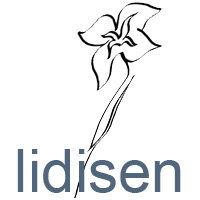
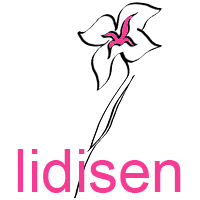
Feature: Landing page complete

diff --git a/templates/home/landing.html b/templates/home/landing.html
@@ -21,9 +21,9 @@
 
         <div class="container">
           <div class="carousel-caption">
-            <h1 class="d-block d-md-none">Another example headline.</h1>
-            <p class="d-block d-md-none">Some representative placeholder content for the second slide of the carousel.</p>
-            <p><a class="btn btn-lg btn-custom" href="#">Learn more</a></p>
+            <h1 class="d-block d-md-none">Sistema de administraci&oacute;n.</h1>
+            <p class="d-block d-md-none">La mejor soluci&oacute;n para administrar tu residencial.</p>
+            <p><a class="btn btn-lg btn-custom" href="#">Producto</a></p>
           </div>
         </div>
       </div>
@@ -33,25 +33,26 @@
 
         <div class="container">
           <div class="carousel-caption">
-            <h1 class="d-block d-md-none">One more for good measure.</h1>
-            <p class="d-block d-md-none">Some representative placeholder content for the third slide of this carousel.</p>
-            <p><a class="btn btn-lg btn-custom" href="#">Browse gallery</a></p>
+            <h1 class="d-block d-md-none">Nuestra soluci&oacute;n.</h1>
+            <p class="d-block d-md-none">Conoce nuestra propuesta enfocada en las personas.</p>
+            <p><a class="btn btn-lg btn-custom" href="#">Experiencia</a></p>
           </div>
         </div>
       </div>
     </div>
     <button class="carousel-control-prev" type="button" data-bs-target="#myCarousel" data-bs-slide="prev">
       <span class="carousel-control-prev-icon" aria-hidden="true"></span>
-      <span class="visually-hidden">Previous</span>
+      <span class="visually-hidden">Anterior</span>
     </button>
     <button class="carousel-control-next" type="button" data-bs-target="#myCarousel" data-bs-slide="next">
       <span class="carousel-control-next-icon" aria-hidden="true"></span>
-      <span class="visually-hidden">Next</span>
+      <span class="visually-hidden">Siguiente</span>
     </button>
   </div>
 
 
-
+  <h1 class="display-6 text-center">Plataforma de gestión administrativa</h1>
+</br>
 
   <!-- Marketing messaging and featurettes
   ================================================== -->
@@ -62,24 +63,22 @@
     <!-- Three columns of text below the carousel -->
     <div class="row">
       <div class="col-lg-4">
-        <svg class="bd-placeholder-img rounded-circle" width="140" height="140" xmlns="http://www.w3.org/2000/svg" role="img" aria-label="Placeholder: 140x140" preserveAspectRatio="xMidYMid slice" focusable="false"><title>Placeholder</title><rect width="100%" height="100%" fill="#777"/><text x="50%" y="50%" fill="#777" dy=".3em">140x140</text></svg>
-        <h2 class="fw-normal">Heading</h2>
-        <p>Some representative placeholder content for the three columns of text below the carousel. This is the first column.</p>
-        <p><a class="btn btn-custom" href="#">View details &raquo;</a></p>
+        <img class="bd-placeholder-img rounded-circle" width="140" height="140" src="{% static 'img/test.jpg' %}" preserveAspectRatio="xMidYMid slice" focusable="false" role="img" aria-label="Placeholder: 140x140">
+        <h2 class="fw-normal">Prueba</h2>
+        <p>Estamos seguros de que nuestro sistema de administraci&oacute;n de residenciales puede resolver todas tus necesidades. Permitenos mostrarte c&oacute;mo puedes lograrlo.</p>
+        <p><a class="btn btn-custom" href="#">Conocenos &raquo;</a></p>
       </div><!-- /.col-lg-4 -->
       <div class="col-lg-4">
-        <svg class="bd-placeholder-img rounded-circle" width="140" height="140" xmlns="http://www.w3.org/2000/svg" role="img" aria-label="Placeholder: 140x140" preserveAspectRatio="xMidYMid slice" focusable="false"><title>Placeholder</title><rect width="100%" height="100%" fill="#777"/><text x="50%" y="50%" fill="#777" dy=".3em">140x140</text></svg>
-
-        <h2 class="fw-normal">Heading</h2>
-        <p>Another exciting bit of representative placeholder content. This time, we've moved on to the second column.</p>
-        <p><a class="btn btn-secondary" href="#">View details &raquo;</a></p>
+        <img class="bd-placeholder-img rounded-circle" width="140" height="140" src="{% static 'img/implementation.jpg' %}" preserveAspectRatio="xMidYMid slice" focusable="false" role="img" aria-label="Placeholder: 140x140">
+        <h2 class="fw-normal">Implementaci&oacute;n</h2>
+        <p>Te acompañamos paso a paso para lograr que todos quieran usar el sistema, descubriran los beneficios y lo amigable que es usar nuestra plataforma.</p>
+        <p><a class="btn btn-custom" href="#">Resuelve &raquo;</a></p>
       </div><!-- /.col-lg-4 -->
       <div class="col-lg-4">
-        <svg class="bd-placeholder-img rounded-circle" width="140" height="140" xmlns="http://www.w3.org/2000/svg" role="img" aria-label="Placeholder: 140x140" preserveAspectRatio="xMidYMid slice" focusable="false"><title>Placeholder</title><rect width="100%" height="100%" fill="#777"/><text x="50%" y="50%" fill="#777" dy=".3em">140x140</text></svg>
-
-        <h2 class="fw-normal">Heading</h2>
-        <p>And lastly this, the third column of representative placeholder content.</p>
-        <p><a class="btn btn-secondary" href="#">View details &raquo;</a></p>
+        <img class="bd-placeholder-img rounded-circle" width="140" height="140" src="{% static 'img/cost.jpg' %}" preserveAspectRatio="xMidYMid slice" focusable="false" role="img" aria-label="Placeholder: 140x140">
+        <h2 class="fw-normal">Costos</h2>
+        <p>Toda la funcionalidad incluida en un &uacute;nico paquete mensual, capacitaci&oacute;n, soporte y atenci&oacute;n personalizada.</p>
+        <p><a class="btn btn-custom" href="#">Proyecta &raquo;</a></p>
       </div><!-- /.col-lg-4 -->
     </div><!-- /.row -->
 
@@ -90,14 +89,16 @@
 
     <div class="row featurette">
       <div class="col-md-7">
-        <h2 class="featurette-heading fw-normal lh-1">About <span class="text-muted">lidisen.</span></h2>
-        <p class="lead">lidisen provides an alternative option for homeowners in reducing the cost and time spent on home improvements. By connecting homeowners directly to certified professionals, lidisen helps homeowners save on overhead cost that is usually associated with the use of traditional service companies. Instead of spending enormous time on doing your home improvements yourself or having friends or associates with little experience do it for you, let our certified, experience professionals save you some time and money.
-          With lidisen, its always less time and money spent on home improvements
-          .</p>
+        <h2 class="featurette-heading fw-normal lh-1">La parte <span class="text-muted">t&eacute;cnica.</span></h2>
+        <p class="lead">Lidisen es una respuesta a los problemas tipicos de un residencial,
+            donde necesitan manejar toda la parte administrativa, mantener el control de los ingresos,
+            los gastos, mantenimientos, morosidad, recibos, cartas de no adeudo, 
+            reservaciones de &aacute;reas comunes y toda esa gesti&oacute;n necesaria para mantener
+            la plusvalia de su patrimonio.
+        </p>
       </div>
       <div class="col-md-5">
-        <svg class="bd-placeholder-img bd-placeholder-img-lg featurette-image img-fluid mx-auto" width="500" height="500" xmlns="http://www.w3.org/2000/svg" role="img" aria-label="Placeholder: 500x500" preserveAspectRatio="xMidYMid slice" focusable="false"><title>Placeholder</title><rect width="100%" height="100%" fill="#eee"/><text x="50%" y="50%" fill="#aaa" dy=".3em">500x500</text></svg>
-
+        <img class="bd-placeholder-img bd-placeholder-img-lg featurette-image img-fluid mx-auto" width="500" height="500" src="{% static 'img/tecnical.jpg' %}" preserveAspectRatio="xMidYMid slice" focusable="false" role="img" aria-label="Placeholder: 500x500">
       </div>
     </div>
 
@@ -105,29 +106,20 @@
 
     <div class="row featurette">
       <div class="col-md-7 order-md-2">
-        <h2 class="featurette-heading fw-normal lh-1">Oh yeah, it’s that good. <span class="text-muted">See for yourself.</span></h2>
-        <p class="lead">Another featurette? Of course. More placeholder content here to give you an idea of how this layout would work with some actual real-world content in place.</p>
+        <h2 class="featurette-heading fw-normal lh-1"><span class="text-muted">Lo mejor de </span>todo.</h2>
+        <p class="lead">
+          La parte t&eacute;cnica la resolvimos de la forma correcta,
+          pero tenemos un punto que nos hace diferentes y es la experiencia que una persona tiene
+          al usar nuestra soluci&oacute;n, el entendimiento de saber que tratamos con personas nos
+          ha llevado a desarrollar un producto que la gente quiere usar, con el cual todos se
+          sienten c&oacute;modos y que no necesita un manual para utilizarse.
+          Es sin duda una opci&oacute;n que vale la pena probar y despu&eacute;s comprobaran que fue la mejor opci&oacute;n.
+        </p>
       </div>
       <div class="col-md-5 order-md-1">
-        <svg class="bd-placeholder-img bd-placeholder-img-lg featurette-image img-fluid mx-auto" width="500" height="500" xmlns="http://www.w3.org/2000/svg" role="img" aria-label="Placeholder: 500x500" preserveAspectRatio="xMidYMid slice" focusable="false"><title>Placeholder</title><rect width="100%" height="100%" fill="#eee"/><text x="50%" y="50%" fill="#aaa" dy=".3em">500x500</text></svg>
-
+        <img class="bd-placeholder-img bd-placeholder-img-lg featurette-image img-fluid mx-auto" width="500" height="500" src="{% static 'img/best.jpg' %}" preserveAspectRatio="xMidYMid slice" focusable="false" role="img" aria-label="Placeholder: 500x500">
       </div>
     </div>
-
-    <hr class="featurette-divider">
-
-    <div class="row featurette">
-      <div class="col-md-7">
-        <h2 class="featurette-heading fw-normal lh-1">And lastly, this one. <span class="text-muted">Checkmate.</span></h2>
-        <p class="lead">And yes, this is the last block of representative placeholder content. Again, not really intended to be actually read, simply here to give you a better view of what this would look like with some actual content. Your content.</p>
-      </div>
-      <div class="col-md-5">
-        <svg class="bd-placeholder-img bd-placeholder-img-lg featurette-image img-fluid mx-auto" width="500" height="500" xmlns="http://www.w3.org/2000/svg" role="img" aria-label="Placeholder: 500x500" preserveAspectRatio="xMidYMid slice" focusable="false"><title>Placeholder</title><rect width="100%" height="100%" fill="#eee"/><text x="50%" y="50%" fill="#aaa" dy=".3em">500x500</text></svg>
-
-      </div>
-    </div>
-
-    <hr class="featurette-divider">
 
     <!-- /END THE FEATURETTES -->
 

diff --git a/templates/footer.html b/templates/footer.html
@@ -18,7 +18,7 @@
           <p>
           <img class="logo-footer" src="{% static 'img/og.png' %}" alt="logo-footer" data-at2x="assets/img/logo.png" width="85" height="85">
           </p>
-          <p><a class="link-black-custom" href="#">Back to top</a></p>
+          <p><a class="link-black-custom" href="#">Regresar al inicio</a></p>
         </div>
         <!-- Grid column -->
 
@@ -26,9 +26,9 @@
         <div class="col-md-2 col-lg-2 col-xl-2 mx-auto mb-4">
           <!-- Links -->
           <h6 class="text-uppercase fw-bold mb-4">
-            Started on
+            Creado en
           </h6>
-          <p class="link-black-custom">March 2021</p>
+          <p class="link-custom">Marzo 2021</p>
         </div>
         <!-- Grid column -->
 
@@ -36,11 +36,9 @@
         <div class="col-md-3 col-lg-2 col-xl-2 mx-auto mb-4">
           <!-- Links -->
           <h6 class="text-uppercase fw-bold mb-4">
-            Developed by
+            Desarrollado por
           </h6>
-          <p>
-            <a class="link-custom" href="https://lidisen.com">lidisen</a>
-          </p>
+          <p class="link-custom">lidisen</p>
         </div>
         <!-- Grid column -->
 
@@ -48,20 +46,20 @@
        <div class="col-md-4 col-lg-3 col-xl-3 mx-auto mb-md-0 mb-4">
         <!-- Links -->
         <h6 class="text-uppercase fw-bold mb-4">
-          Contact
+          Contacto
         </h6>
         <p>         
-          <i class="fas fa-home mr-3"></i><a class="link-black-custom" href="https://www.google.com/maps/place/Serapio+Rendon+112,+San+Rafael,+Cuauht%C3%A9moc,+06470+Ciudad+de+M%C3%A9xico,+CDMX/@19.4342223,-99.1623772,17z/data=!3m1!4b1!4m5!3m4!1s0x85d1f8ccefc0dc27:0x4d38d070542e724b!8m2!3d19.4342223!4d-99.1601885" target="_blank">  Saskatchewan</a>
+          <i class="fas fa-home mr-3"></i><a class="link-black-custom" href="https://www.google.com/maps/place/Serapio+Rendon+112,+San+Rafael,+Cuauht%C3%A9moc,+06470+Ciudad+de+M%C3%A9xico,+CDMX/@19.4342223,-99.1623772,17z/data=!3m1!4b1!4m5!3m4!1s0x85d1f8ccefc0dc27:0x4d38d070542e724b!8m2!3d19.4342223!4d-99.1601885" target="_blank">  Calle Serapio Rend&oacute;n 112, Colonia San Rafael, Alcald&iacute;a Cuauhtémoc, C.P. 06470, CDMX.</a>
         </p>
         <p>
-          <i class="fas fa-envelope mr-3"></i><a class="link-black-custom" href="mailto:lidisen@gmail.com" target="_blank">  lidisen</a>
+          <i class="fas fa-envelope mr-3"></i><a class="link-black-custom" href="mailto:soporte.lidisen@gmail.com" target="_blank">  lidisen</a>
         </p>
         <p>
           <i class="fas fa-phone mr-3"></i><a class="link-black-custom" href="tel:55 2686 3566" target="_blank">  55 2686 3566</a>
         </p>
         <p>
           <i class="fab fa-whatsapp mr-3"></i>
-          <a class="link-black-custom" href="https://api.whatsapp.com/send?phone=525526863566&text=Hola,%20administración%20del%20residencial%20Malli." target="_blank">  55 2686 3566</a>
+          <a class="link-black-custom" href="https://api.whatsapp.com/send?phone=525526863566&text=Hola,%20estoy%20interesado%20en%20lidisen." target="_blank">55 2686 3566</a>
         </p>
       </div>
       <!-- Grid column -->
@@ -74,8 +72,8 @@
     <!-- Copyright -->
     <div class="footer-copyright text-center py-3">
       <small class="text-white">
-        © Copyright 2022 all rights reserved by
-        <a class="text-white" href="https://lidisen.com">lidisen</a>
+        © Copyright 2020 todos los derechos reservados por
+        <a class="text-white" href="https://lidisen.com">lidisen.com</a>
       </small>
     </div>
     <!-- Copyright -->

diff --git a/templates/nav.html b/templates/nav.html
@@ -16,17 +16,14 @@
         <div class="offcanvas-body">
           <ul class="navbar-nav justify-content-end flex-grow-1 pe-3">
             <li class="nav-item">
-              <a class="nav-link active" aria-current="page" href="{% url 'home:home' %}">Home</a>
-            </li>
-            <li class="nav-item">
-              <a class="nav-link" href="#">Become a Tasker</a>
+              <a class="nav-link active" aria-current="page" href="{% url 'home:home' %}">Soluciones residenciales</a>
             </li>
             <li class="nav-item dropdown">
               <a class="nav-link dropdown-toggle" href="#" id="offcanvasNavbarLgDropdown" role="button" data-bs-toggle="dropdown" aria-expanded="false">
-                Services
+                Producto
               </a>
               <ul class="dropdown-menu" aria-labelledby="offcanvasNavbarLgDropdown">
-                <li><a class="dropdown-item" href="#">Action</a></li>
+                <li><a class="dropdown-item" href="#">Sistema de administraci&oacute;n</a></li>
                 <li><a class="dropdown-item" href="#">Another action</a></li>
                 <li>
                   <hr class="dropdown-divider">
@@ -34,11 +31,13 @@
                 <li><a class="dropdown-item" href="#">Something else here</a></li>
               </ul>
             </li>
+            <li class="nav-item">
+              <a class="nav-link" href="#">Nuestro equipo</a>
+            </li>
+            <li class="nav-item">
+              <a class="btn btn-custom" href="#">Contacto</a>
+            </li>
           </ul>
-          <form class="d-flex mt-3 mt-lg-0" role="search">
-            <input class="form-control me-2" type="search" placeholder="Search" aria-label="Search">
-            <button class="btn btn-outline-light" type="submit">Search</button>
-          </form>
         </div>
       </div>
     </div>

diff --git a/static/css/main.css b/static/css/main.css
@@ -1,8 +1,19 @@
 /*
 Last modification: 6/21/2022
-Created: 6/21/2022
+Created: 7/16/2022
 Author Rodrigo Carmona Mendoza
 Supported by lidisen
+*/
+
+/* 
+The color palette is made up of:
+primary colors:
+Polimetal gray: #51667b
+Porcia pink: #f63b94
+
+secondary colors:
+Light gray: #fdfcfc
+Simple white: #ffffff
 */
 
 .bd-placeholder-img {
@@ -67,11 +78,11 @@ Supported by lidisen
 
 /* custom local link */
 .link-custom {
-  color: #51667b;
+  color: #f63b94;
 }
 
 .link-custom:hover {
-  color: #b1b1b1;
+  color: #51667b;
 }
 
 
@@ -80,19 +91,19 @@ Supported by lidisen
 }
 
 .link-black-custom:hover {
-  color: #51667b;  
+  color: #f63b94;  
 }
 
 /* custom button */
 .btn-custom {
-  background-color: #51667b;
+  background-color: #f63b94;
   color: white;
   border-color: white;
 }
 
 .btn-custom:hover {
-  background-color: #ffffff;
-  color: #131f28;
+  background-color: #51667b;
+  color: white;
 }
 
 /* custom local footer */
